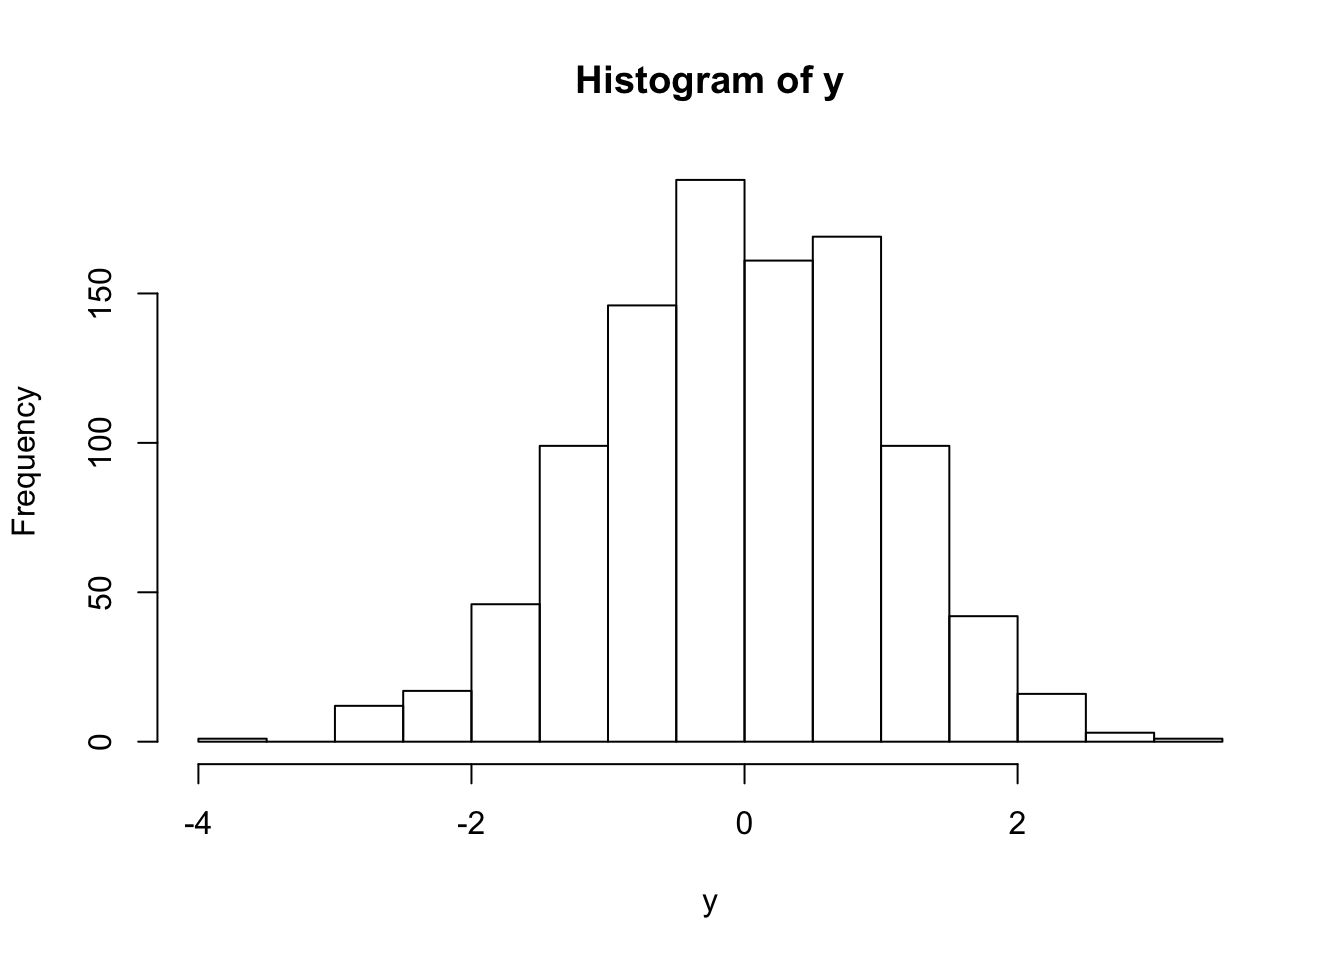
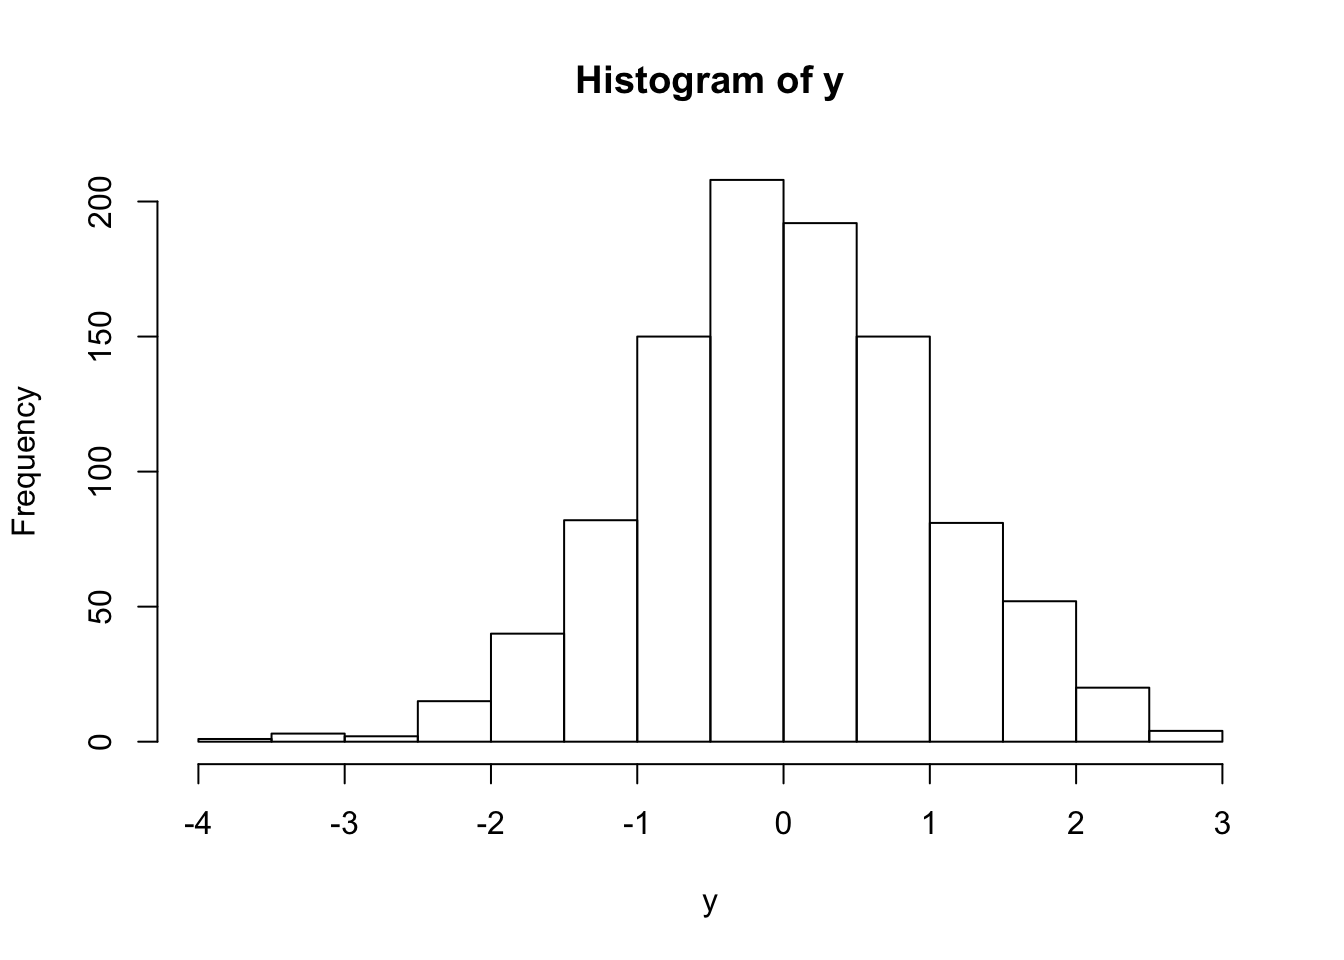
updated book

diff --git a/docs/randomvars.html b/docs/randomvars.html
@@ -443,11 +443,11 @@ The expectation is:</p>
 <a class="sourceLine" id="cb82-5" title="5"><span class="co"># Each row represents a sample (instance) drawn from X_i</span></a>
 <a class="sourceLine" id="cb82-6" title="6">samp.mat &lt;-<span class="st"> </span><span class="kw">matrix</span>(samps, <span class="dt">ncol =</span> n.samps) </a>
 <a class="sourceLine" id="cb82-7" title="7"><span class="kw">str</span>(samp.mat)</a></code></pre></div>
-<pre><code>##  num [1:20, 1:1000] -0.493 0.578 1.239 0.418 -0.804 ...</code></pre>
+<pre><code>##  num [1:20, 1:1000] 0.3503 -0.0338 -2.6342 -0.8477 -1.4981 ...</code></pre>
 <div class="sourceCode" id="cb84"><pre class="sourceCode r"><code class="sourceCode r"><a class="sourceLine" id="cb84-1" title="1"><span class="co"># Here we calculate the sample mean for each X_i (column)</span></a>
 <a class="sourceLine" id="cb84-2" title="2">samp.means &lt;-<span class="st"> </span><span class="kw">colMeans</span>(samp.mat)</a>
 <a class="sourceLine" id="cb84-3" title="3"><span class="kw">str</span>(samp.means)</a></code></pre></div>
-<pre><code>##  num [1:1000] 0.0614 0.0965 0.2138 0.2723 0.117 ...</code></pre>
+<pre><code>##  num [1:1000] -0.1989 -0.0435 -0.0255 0.2326 -0.2432 ...</code></pre>
 <div class="sourceCode" id="cb86"><pre class="sourceCode r"><code class="sourceCode r"><a class="sourceLine" id="cb86-1" title="1"><span class="kw">hist</span>(samp.means)</a></code></pre></div>
 <p><img src="05_random_variables_files/figure-html/unnamed-chunk-1-1.png" width="672" /></p>
 <p>2a. What happens if we change <code>samp.size</code> (i.e., <span class="math inline">\(n\)</span>)?</p>
@@ -755,7 +755,7 @@ f_{X|Y}(x |Y = y) =&amp; \frac{f_{X,Y}(x,y)}{f_{Y}(y)}
 ##     lines(x, dnorm(x, mean = mean(dosm), sd = sd(dosm)))
 ##     c(`mean of DOSM` = mean(dosm), `SD of DOSM` = sd(dosm), `var of DOSM` = var(dosm))
 ## }
-## &lt;bytecode: 0x7ff609564cf8&gt;
+## &lt;bytecode: 0x7f9b56bde410&gt;
 ## &lt;environment: namespace:stfspack&gt;</code></pre>
 <div class="sourceCode" id="cb105"><pre class="sourceCode r"><code class="sourceCode r"><a class="sourceLine" id="cb105-1" title="1">nsim &lt;-<span class="st"> </span><span class="dv">10000</span></a>
 <a class="sourceLine" id="cb105-2" title="2">n &lt;-<span class="st"> </span><span class="dv">1</span></a>
@@ -829,7 +829,7 @@ If the shape parameter is <span class="math inline">\(\leq\)</span> 2, <span cla
 ##     mean(x &lt; (mu - k * sigma) | x &gt; (mu + k * sigma))/(1 - (pnorm(k) - 
 ##         pnorm(-k)))
 ## }
-## &lt;bytecode: 0x7ff60bd2c070&gt;
+## &lt;bytecode: 0x7f9b546d2e68&gt;
 ## &lt;environment: namespace:stfspack&gt;</code></pre>
 <div class="sourceCode" id="cb121"><pre class="sourceCode r"><code class="sourceCode r"><a class="sourceLine" id="cb121-1" title="1">k &lt;-<span class="st"> </span><span class="dv">2</span> <span class="co"># sds</span></a>
 <a class="sourceLine" id="cb121-2" title="2"><span class="kw">compare.tail.to.normal</span>(<span class="dt">x =</span> x, <span class="dt">k =</span> k, <span class="dt">mu =</span> mu, <span class="dt">sigma =</span> stdev)</a></code></pre></div>
@@ -992,7 +992,7 @@ If the shape parameter is <span class="math inline">\(\leq\)</span> 2, <span cla
 ##     y &lt;- a + b * x + disturbs
 ##     cbind(x, y)
 ## }
-## &lt;bytecode: 0x7ff60d0c4248&gt;
+## &lt;bytecode: 0x7f9b578b1be0&gt;
 ## &lt;environment: namespace:stfspack&gt;</code></pre>
 <div class="sourceCode" id="cb171"><pre class="sourceCode r"><code class="sourceCode r"><a class="sourceLine" id="cb171-1" title="1">sim_<span class="dv">0</span>_<span class="dv">1</span> &lt;-<span class="st"> </span><span class="kw">sim.lm</span>(<span class="dt">n =</span> <span class="dv">50</span>, <span class="dt">a =</span> <span class="dv">0</span>, <span class="dt">b =</span> <span class="dv">1</span>)</a>
 <a class="sourceLine" id="cb171-2" title="2"><span class="kw">head</span>(sim_<span class="dv">0</span>_<span class="dv">1</span>)</a></code></pre></div>

diff --git a/docs/05_random_variables.md b/docs/05_random_variables.md
@@ -285,7 +285,7 @@ str(samp.mat)
 ```
 
 ```
-##  num [1:20, 1:1000] -0.493 0.578 1.239 0.418 -0.804 ...
+##  num [1:20, 1:1000] 0.3503 -0.0338 -2.6342 -0.8477 -1.4981 ...
 ```
 
 ```r
@@ -295,7 +295,7 @@ str(samp.means)
 ```
 
 ```
-##  num [1:1000] 0.0614 0.0965 0.2138 0.2723 0.117 ...
+##  num [1:1000] -0.1989 -0.0435 -0.0255 0.2326 -0.2432 ...
 ```
 
 ```r
@@ -723,7 +723,7 @@ dosm.beta.hist
 ##     lines(x, dnorm(x, mean = mean(dosm), sd = sd(dosm)))
 ##     c(`mean of DOSM` = mean(dosm), `SD of DOSM` = sd(dosm), `var of DOSM` = var(dosm))
 ## }
-## <bytecode: 0x7ff609564cf8>
+## <bytecode: 0x7f9b56bde410>
 ## <environment: namespace:stfspack>
 ```
 
@@ -850,7 +850,7 @@ compare.tail.to.normal
 ##     mean(x < (mu - k * sigma) | x > (mu + k * sigma))/(1 - (pnorm(k) - 
 ##         pnorm(-k)))
 ## }
-## <bytecode: 0x7ff60bd2c070>
+## <bytecode: 0x7f9b546d2e68>
 ## <environment: namespace:stfspack>
 ```
 
@@ -1173,7 +1173,7 @@ sim.lm
 ##     y <- a + b * x + disturbs
 ##     cbind(x, y)
 ## }
-## <bytecode: 0x7ff60d0c4248>
+## <bytecode: 0x7f9b578b1be0>
 ## <environment: namespace:stfspack>
 ```
 
